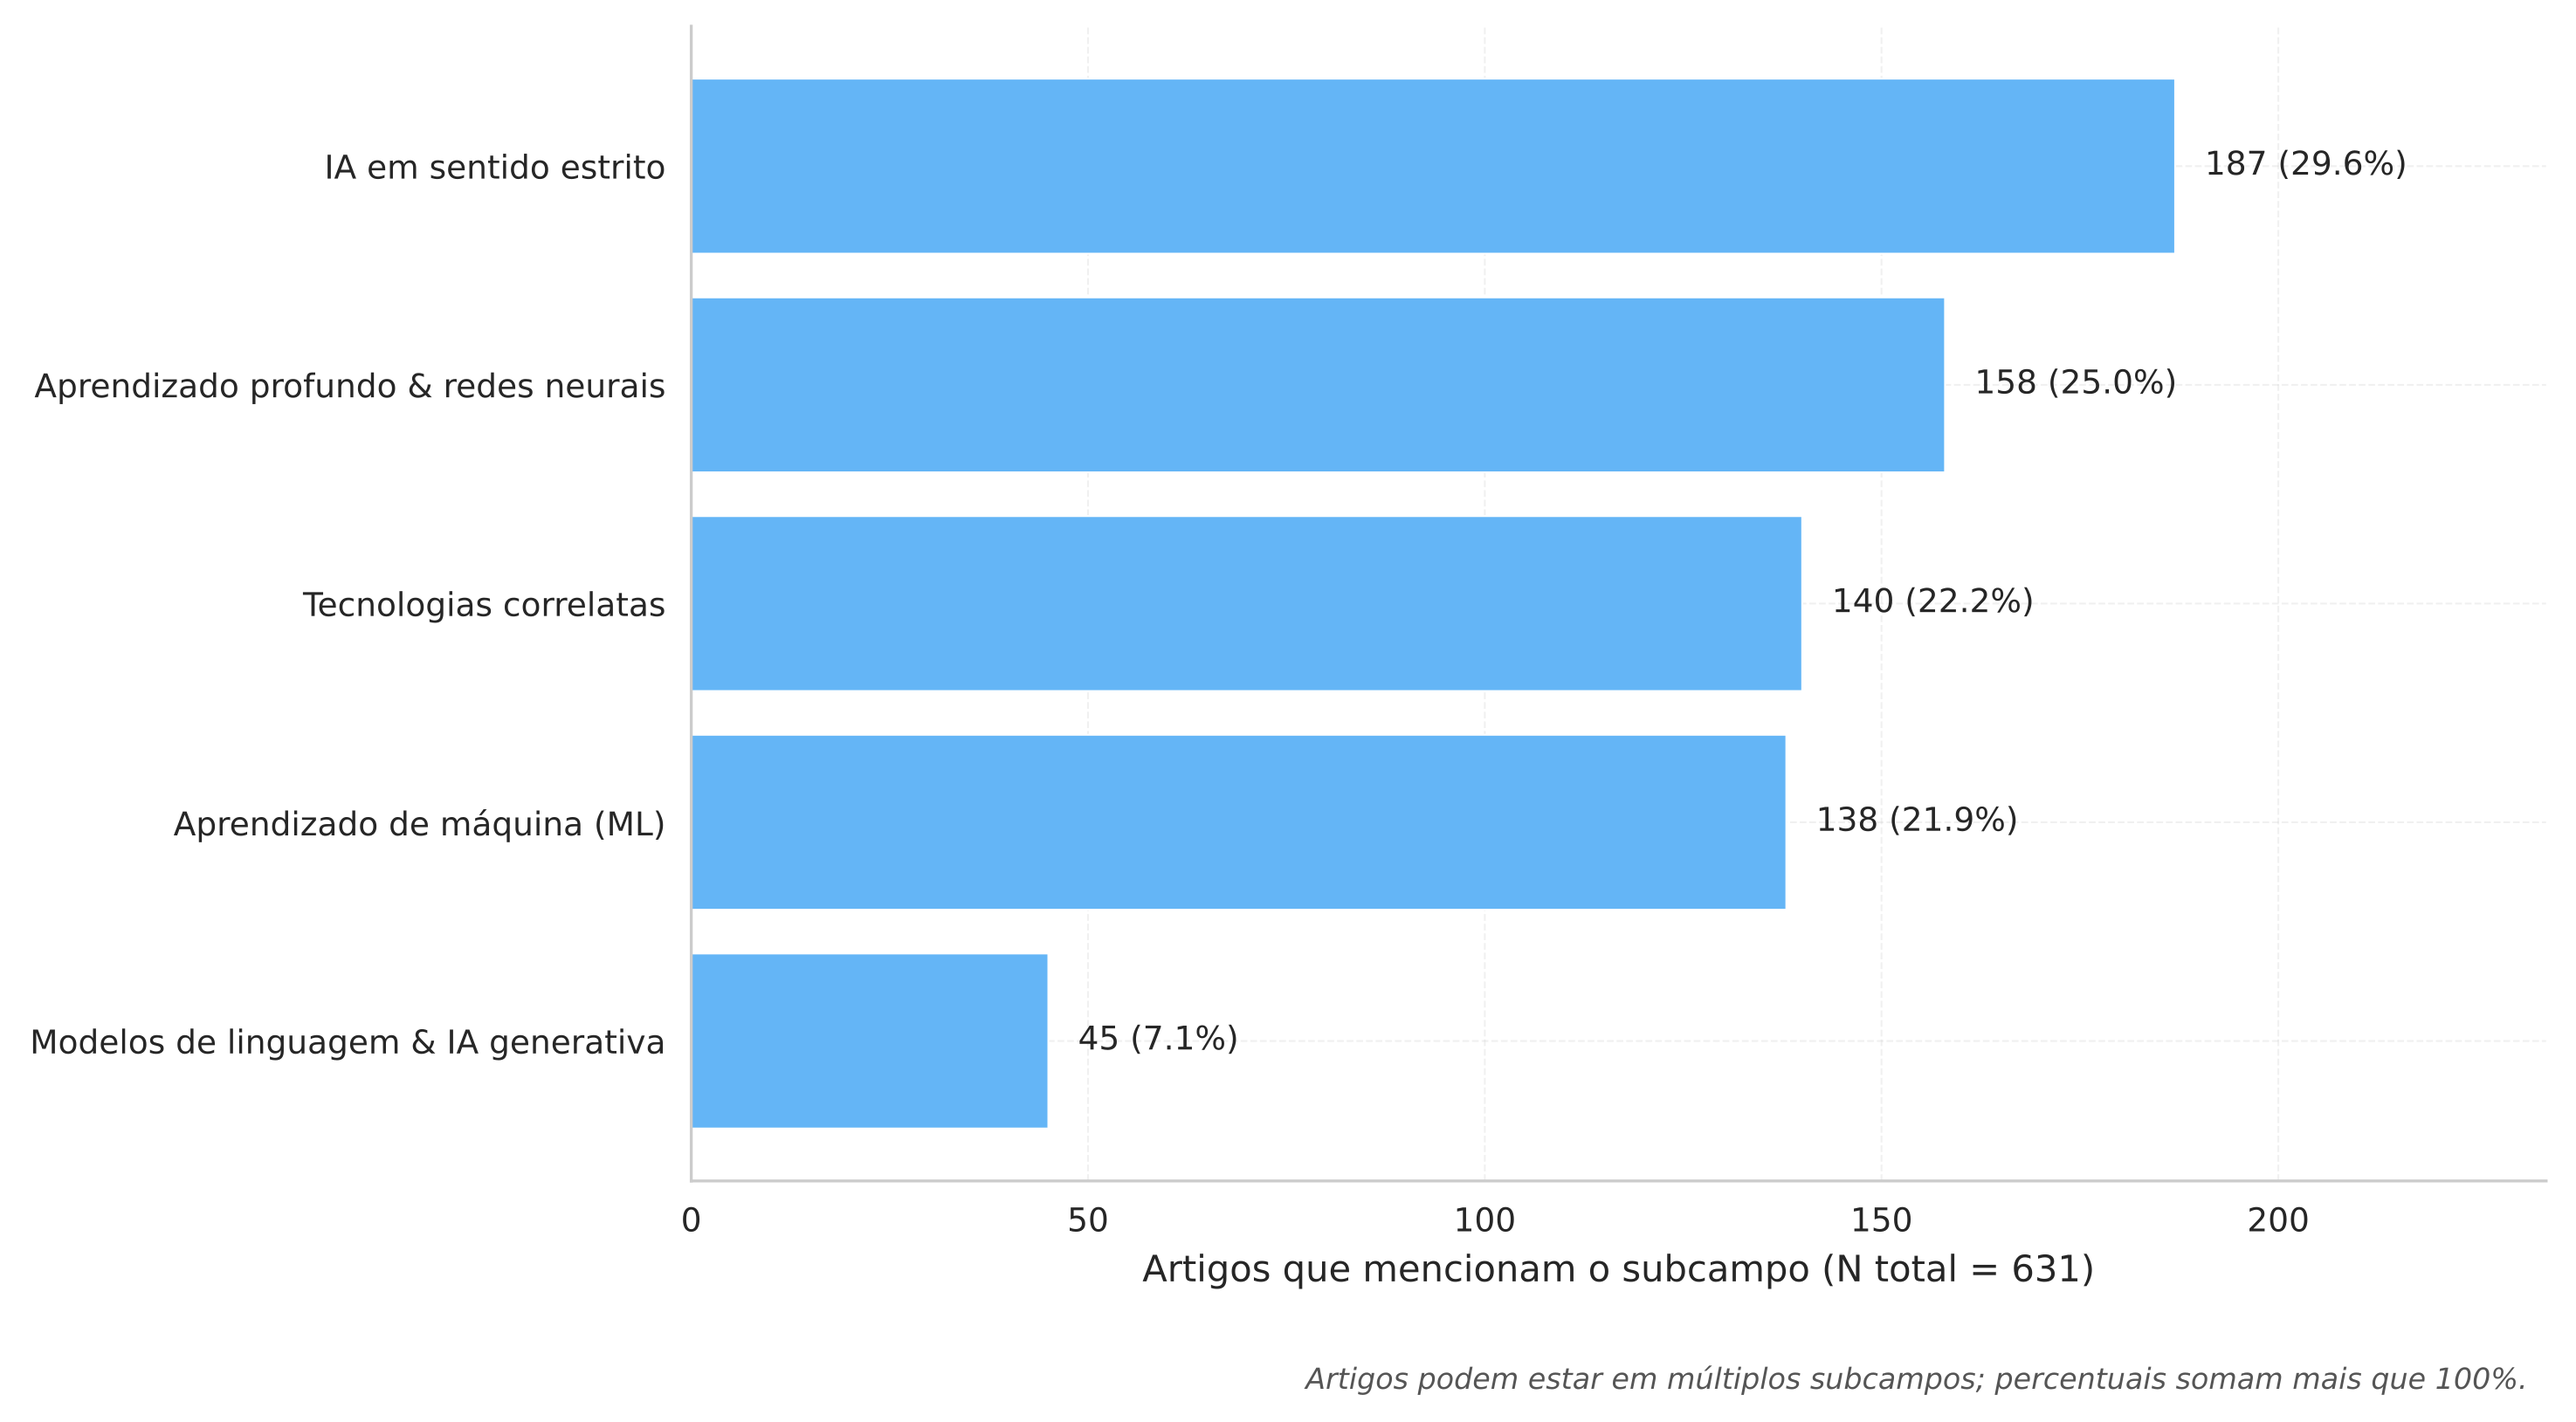
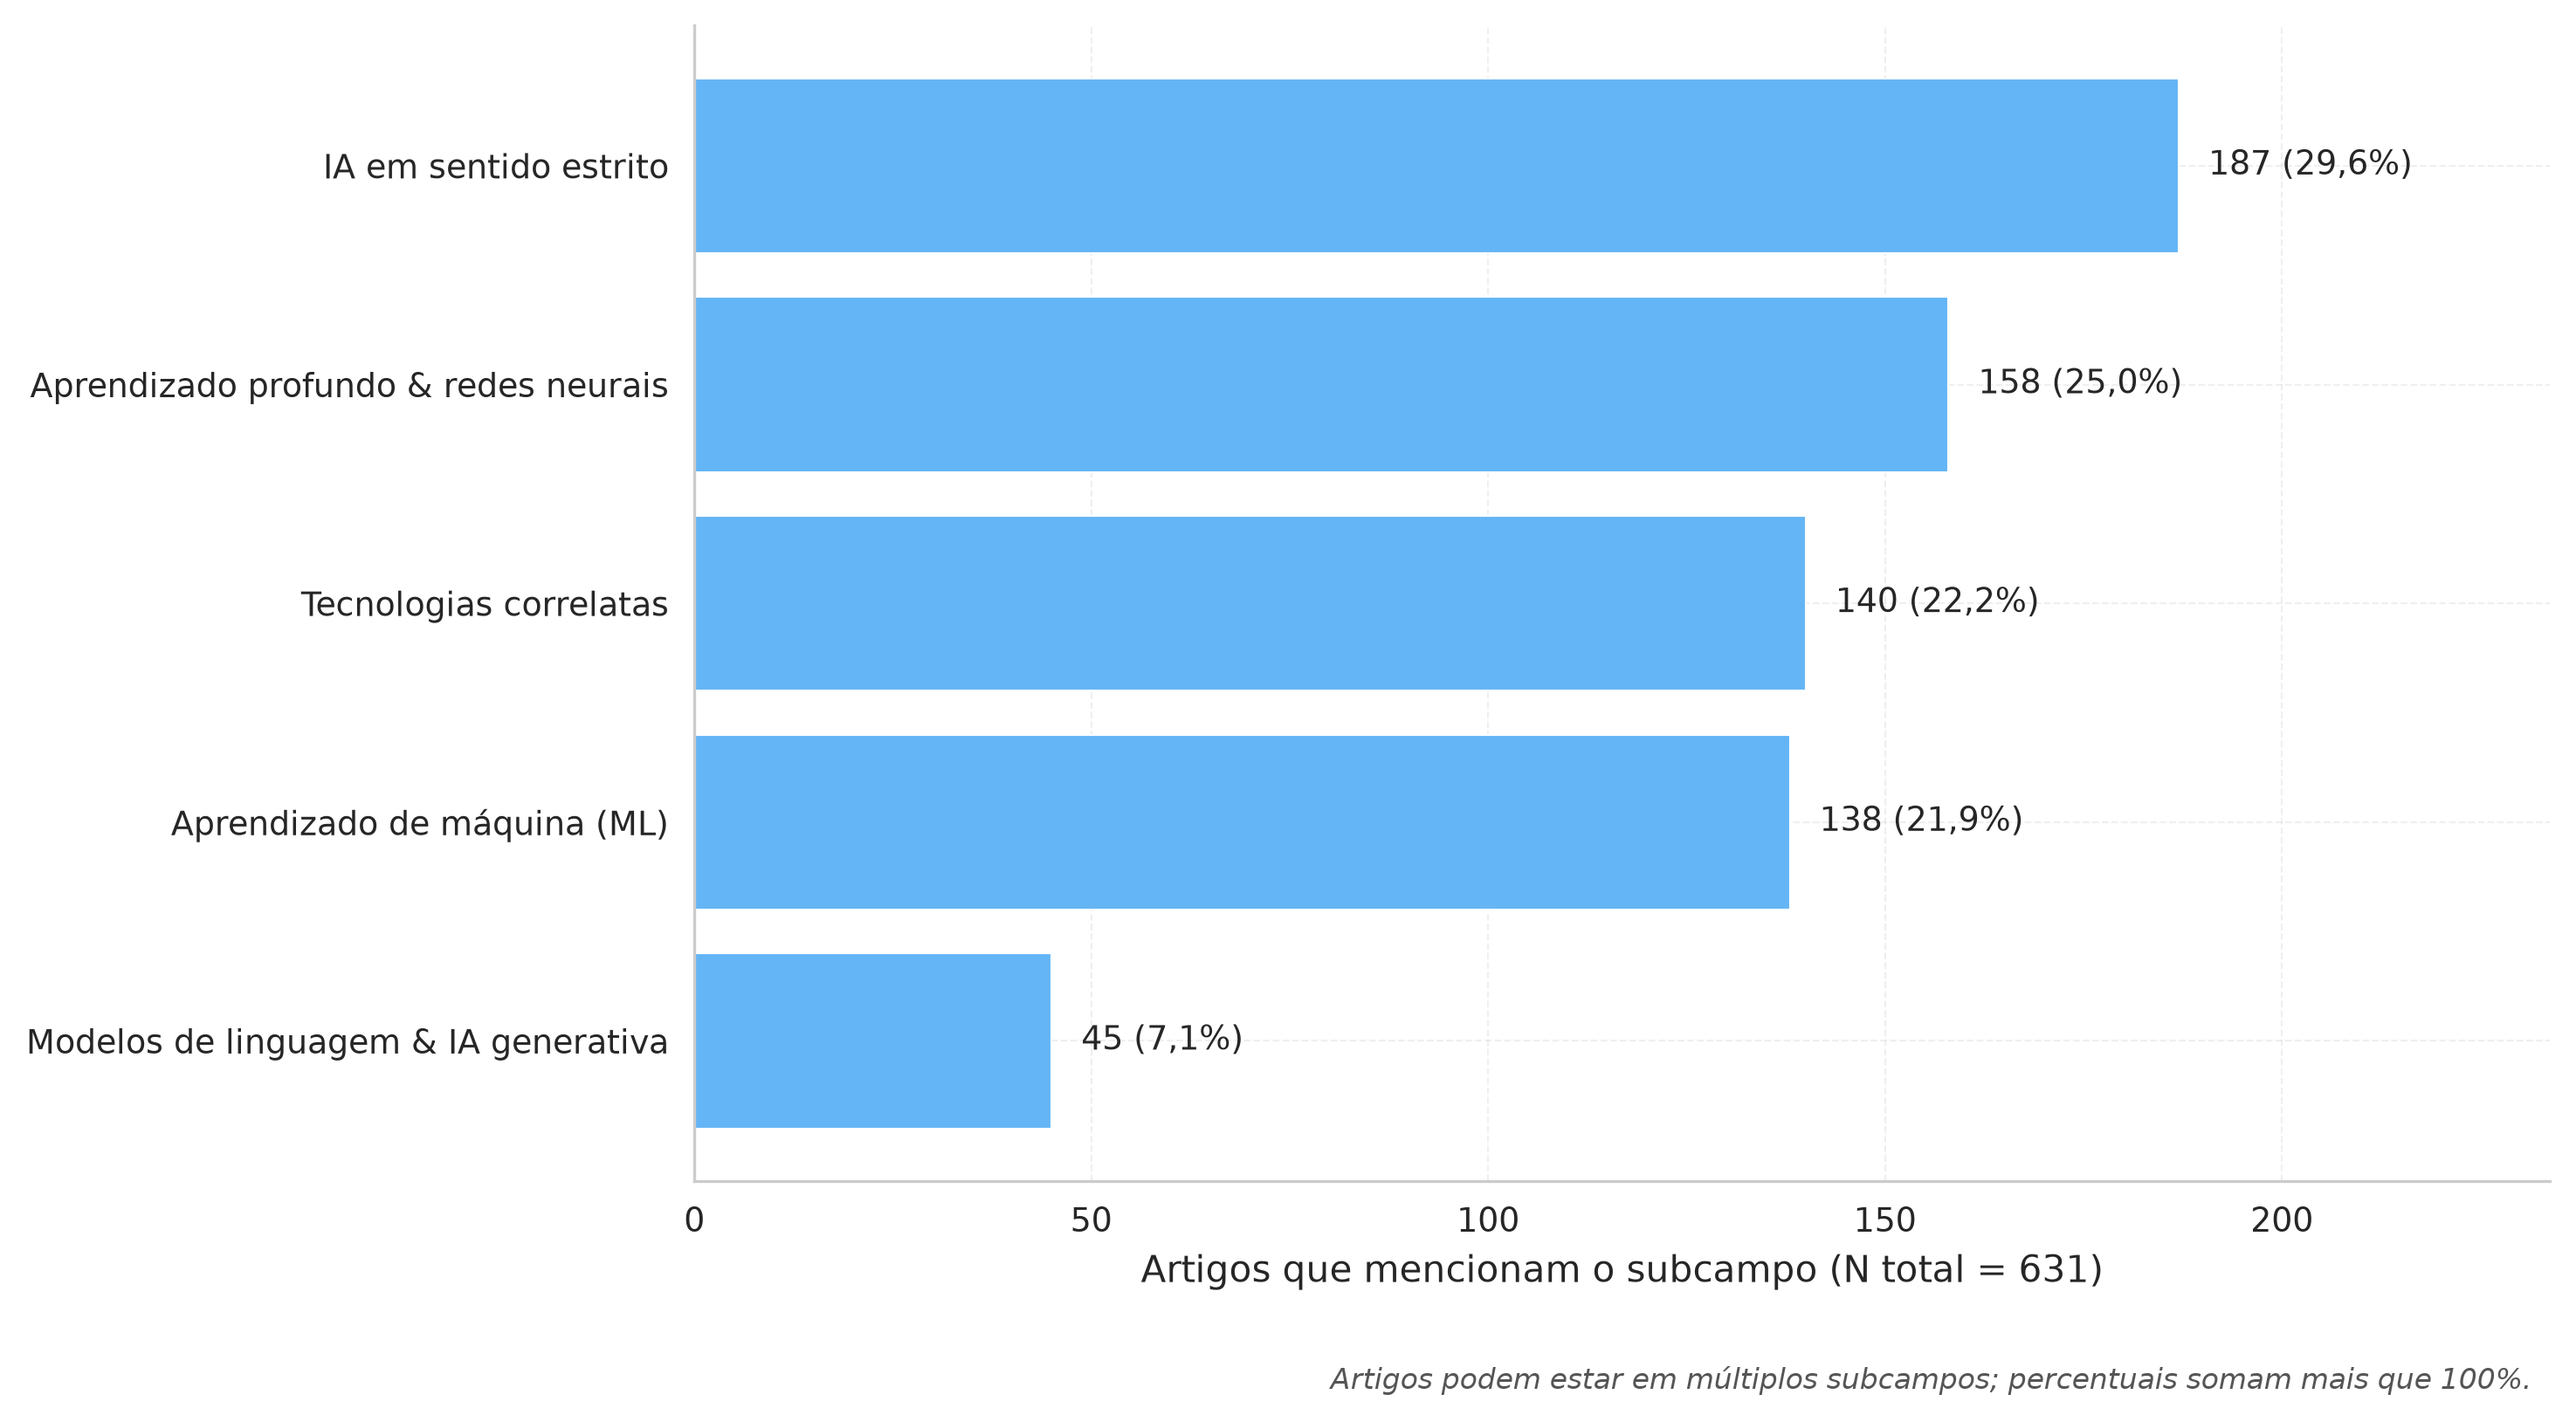
Figuras de subcampo: notação numérica em padrão brasileiro (pt-BR)
Acrescenta os auxiliares num_ptbr (milhar com ponto) e pct_ptbr (decimal com
vírgula) em utils.py e aplica-os aos rótulos de capes_21 e scielo_21, alinhando
a notação das figuras ao texto da tese (ex.: "5.284 (40,7%)" no lugar de
"5,284 (40.7%)"). Figuras regeneradas a partir das fontes (CAPES N=12.995;
SciELO coorte estrita 2021-2024 N=631); contagens preservadas, cor por base
mantida (CAPES verde, SciELO azul).

Claude-Session: https://claude.ai/code/session_015WtRRv5Syow6Xra2dQGyoj

diff --git a/utils.py b/utils.py
@@ -290,6 +290,24 @@ def garantir_diretorio(caminho):
     return caminho
 
 
+def num_ptbr(valor) -> str:
+    """Inteiro no padrão brasileiro: ponto como separador de milhar.
+
+    Ex.: 5284 -> "5.284", 631 -> "631". Usado nos rótulos das figuras para
+    alinhar a notação numérica das imagens ao texto da tese (pt-BR).
+    """
+    return f"{int(round(valor)):,}".replace(",", ".")
+
+
+def pct_ptbr(valor, casas: int = 1) -> str:
+    """Percentual no padrão brasileiro: vírgula decimal, sem o símbolo '%'.
+
+    Ex.: 40.66 -> "40,7". O caller acrescenta o '%'. Mantém o ponto de milhar
+    pt-BR quando houver (ex.: 1234.5 -> "1.234,5").
+    """
+    return f"{valor:,.{casas}f}".replace(",", "\x00").replace(".", ",").replace("\x00", ".")
+
+
 def salvar_figura(caminho, fig=None, **kwargs):
     """Salva a figura em PNG e SVG usando o caminho como nome-base.
 

diff --git a/figuras_capes_2021_2024.py b/figuras_capes_2021_2024.py
@@ -40,6 +40,8 @@ from utils import (
     STOPWORDS_PT,
     aplicar_estilo_padrao,
     garantir_diretorio,
+    num_ptbr,
+    pct_ptbr,
     salvar_figura,
 )
 
@@ -516,9 +518,9 @@ def fig21_subcampos_distribuicao(df: pd.DataFrame) -> None:
     for bar, val in zip(bars, vals):
         ax.text(bar.get_width() + max(vals) * 0.01,
                 bar.get_y() + bar.get_height() / 2,
-                f"{val:,} ({val/total*100:.1f}%)",
+                f"{num_ptbr(val)} ({pct_ptbr(val/total*100)}%)",
                 va="center", fontsize=9)
-    ax.set_xlabel(f"Trabalhos que mencionam o subcampo (N total do corpus = {total:,})")
+    ax.set_xlabel(f"Trabalhos que mencionam o subcampo (N total do corpus = {num_ptbr(total)})")
     ax.set_xlim(0, max(vals) * 1.18)
     # Nota: percentuais somam mais que 100% porque um trabalho pode estar
     # em múltiplos subcampos

diff --git a/figuras_scielo_articlemeta.py b/figuras_scielo_articlemeta.py
@@ -46,6 +46,8 @@ from utils import (
     STOPWORDS_PT,
     aplicar_estilo_padrao,
     garantir_diretorio,
+    num_ptbr,
+    pct_ptbr,
     salvar_figura,
 )
 
@@ -479,9 +481,9 @@ def fig21_subcampos_dist(df):
     for bar, val in zip(bars, vals):
         ax.text(bar.get_width() + max(vals) * 0.02,
                 bar.get_y() + bar.get_height()/2,
-                f"{val} ({val/total*100:.1f}%)",
+                f"{num_ptbr(val)} ({pct_ptbr(val/total*100)}%)",
                 va="center", fontsize=9)
-    ax.set_xlabel(f"Artigos que mencionam o subcampo (N total = {total})")
+    ax.set_xlabel(f"Artigos que mencionam o subcampo (N total = {num_ptbr(total)})")
     ax.set_xlim(0, max(vals) * 1.25)
     ax.text(0.99, -0.18,
             "Artigos podem estar em múltiplos subcampos; percentuais somam mais que 100%.",
